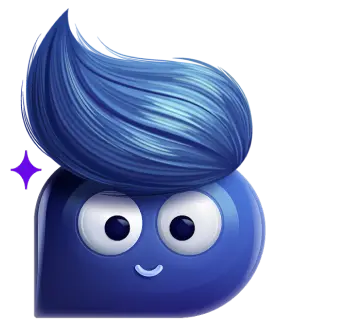
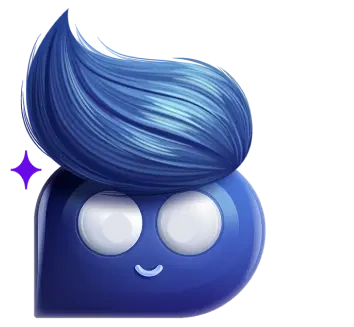
Dodaj animowane oczy i animację machania maskotki.
Wprowadza śledzenie kursora przez oczy, zoom przy machaniu oraz pokazuje rękę tylko podczas machania, zachowując działanie toggle powiadomień.

Made-with: Cursor

Changed region(s): [[0.4661, 0.6422, 0.5593, 0.7645], [0.2797, 0.6422, 0.3729, 0.7645]]

diff --git a/skillo.jsx b/skillo.jsx
@@ -2,8 +2,11 @@
 //
 // Requirements:
 //   - React 18+, Tailwind CSS
-//   - place skillo-body.webp and skillo-hand.webp next to this file
-//   - Satoshi is loaded via <style> @import - remove if you self-host it
+//   - place three files next to this component:
+//       skillo-body.webp       (body with eyes ERASED - for animated hero with tracking pupils)
+//       skillo-body-full.webp  (body with eyes - for the chat header avatar)
+//       skillo-hand.webp       (waving hand)
+//   - Satoshi loaded via <style> @import - remove if self-hosted
 //
 // Usage:
 //   import Skillo from "./Skillo";
@@ -12,17 +15,25 @@
 //   ref.current.wave();           // trigger wave animation
 //   ref.current.notify("text");   // wave + red dot + open chat with message
 //
-// IMPORTANT: this component posts to /api/chat for AI replies.
-// Implement that endpoint on your backend. It receives:
+// Features:
+//   - Eyes follow the cursor (bottom-right mascot only)
+//   - Hand only appears while waving (fades in, scales)
+//   - Mascot pulses in/out with the wave rhythm - more attention-grabbing
+//   - Header avatar has static eyes (does not track cursor)
+//
+// IMPORTANT: posts to /api/chat for AI replies.
+// Implement that endpoint on your backend, receiving:
 //   { messages: [{ role: "user"|"assistant", content: "..." }, ...] }
-// It must return { reply: "..." }.
-// Keep your Anthropic API key server-side, never in the frontend.
+// and returning: { reply: "..." }
+// Keep Anthropic API key server-side.
 
 import { useState, useEffect, useRef, useCallback, useImperativeHandle, forwardRef } from "react";
 import bodyImg from "./skillo-body.webp";
+import bodyImgFull from "./skillo-body-full.webp";
 import handImg from "./skillo-hand.webp";
 
 const BODY_IMG = bodyImg;
+const BODY_IMG_FULL = bodyImgFull;
 const HAND_IMG = handImg;
 
 const BRAND = "#42079E";
@@ -40,11 +51,19 @@ const Skillo = forwardRef(function Skillo(props, ref) {
   const [isOpen, setIsOpen] = useState(false);
   const [isHovering, setIsHovering] = useState(false);
   const [waveKey, setWaveKey] = useState(0);
+  const [isWaving, setIsWaving] = useState(false);
   const [hasNotification, setHasNotification] = useState(false);
   const [pendingMessage, setPendingMessage] = useState(null);
+  const [pupilOffset, setPupilOffset] = useState({ x: 0, y: 0 });
+  const heroContainerRef = useRef(null);
+  const waveTimeoutRef = useRef(null);
 
   const wave = useCallback(() => {
     setWaveKey((k) => k + 1);
+    setIsWaving(true);
+    if (waveTimeoutRef.current) clearTimeout(waveTimeoutRef.current);
+    // Wave animation runs 1.3s * 2 iterations = 2.6s
+    waveTimeoutRef.current = setTimeout(() => setIsWaving(false), 2600);
   }, []);
 
   const notify = useCallback(
@@ -67,8 +86,37 @@ const Skillo = forwardRef(function Skillo(props, ref) {
 
   useEffect(() => {
     const t = setTimeout(() => wave(), 600);
-    return () => clearTimeout(t);
+    return () => {
+      clearTimeout(t);
+      if (waveTimeoutRef.current) clearTimeout(waveTimeoutRef.current);
+    };
   }, [wave]);
+
+  // Eyes follow cursor
+  useEffect(() => {
+    const handleMove = (e) => {
+      if (!heroContainerRef.current) return;
+      const rect = heroContainerRef.current.getBoundingClientRect();
+      const cx = rect.left + rect.width / 2;
+      const cy = rect.top + rect.height / 2;
+      const dx = e.clientX - cx;
+      const dy = e.clientY - cy;
+      const dist = Math.sqrt(dx * dx + dy * dy);
+      if (dist === 0) {
+        setPupilOffset({ x: 0, y: 0 });
+        return;
+      }
+      // Max offset in pixels - small enough that pupil stays inside eye white
+      const maxOffsetPx = 3;
+      // Fade off: full offset within 500px, then clamp
+      const norm = Math.min(dist, 500) / 500;
+      const ox = (dx / dist) * maxOffsetPx * norm;
+      const oy = (dy / dist) * maxOffsetPx * norm;
+      setPupilOffset({ x: ox, y: oy });
+    };
+    window.addEventListener("mousemove", handleMove);
+    return () => window.removeEventListener("mousemove", handleMove);
+  }, []);
 
   const handleClick = () => {
     setIsOpen((o) => !o);
@@ -111,12 +159,58 @@ const Skillo = forwardRef(function Skillo(props, ref) {
 
         .skillo-float { animation: skillo-float 4s ease-in-out infinite; }
 
+        @keyframes skillo-wave-pulse {
+          0%   { transform: translateY(0) scale(1); }
+          15%  { transform: translateY(-10px) scale(1.08); }
+          30%  { transform: translateY(-4px) scale(1.02); }
+          45%  { transform: translateY(-10px) scale(1.08); }
+          60%  { transform: translateY(-4px) scale(1.02); }
+          75%  { transform: translateY(-8px) scale(1.05); }
+          100% { transform: translateY(0) scale(1); }
+        }
+        @keyframes skillo-wave-pulse-hover {
+          0%   { transform: translateY(-10px) scale(1.05); }
+          15%  { transform: translateY(-14px) scale(1.12); }
+          30%  { transform: translateY(-8px) scale(1.06); }
+          45%  { transform: translateY(-14px) scale(1.12); }
+          60%  { transform: translateY(-8px) scale(1.06); }
+          75%  { transform: translateY(-12px) scale(1.09); }
+          100% { transform: translateY(-10px) scale(1.05); }
+        }
+
         .skillo-lift  { transition: transform 300ms cubic-bezier(0.34, 1.56, 0.64, 1); }
         .skillo-lift.hovering { transform: translateY(-10px) scale(1.05); }
+        .skillo-lift.waving {
+          animation: skillo-wave-pulse 2.6s ease-in-out forwards;
+          transition: none;
+        }
+        .skillo-lift.hovering.waving {
+          animation: skillo-wave-pulse-hover 2.6s ease-in-out forwards;
+          transition: none;
+        }
 
+        @keyframes skillo-hand-appear {
+          0%   { opacity: 0; transform: scale(0.6) rotate(-30deg); }
+          100% { opacity: 1; transform: scale(1) rotate(0deg); }
+        }
+        .skillo-hand-wrap {
+          animation: skillo-hand-appear 0.25s cubic-bezier(0.34, 1.56, 0.64, 1) forwards;
+          transform-origin: 38% 88%;
+        }
         .skillo-hand {
           transform-origin: 38% 88%;
           animation: skillo-wave 1.3s ease-in-out 2;
+          animation-delay: 0.15s;
+          animation-fill-mode: both;
+        }
+
+        /* Pupil tracking */
+        .skillo-pupil {
+          position: absolute;
+          background: #0B0B2A;
+          border-radius: 50%;
+          transition: transform 120ms ease-out;
+          pointer-events: none;
         }
 
         .skillo-pop  { animation: skillo-pop 0.35s cubic-bezier(0.34, 1.56, 0.64, 1); transform-origin: bottom right; }
@@ -144,10 +238,11 @@ const Skillo = forwardRef(function Skillo(props, ref) {
         )}
 
         {/* The hero widget — fixed bottom-right */}
-        <div className="fixed bottom-6 right-6 z-40" style={{ width: 108, height: 100 }}>
+        <div ref={heroContainerRef} className="fixed bottom-6 right-6 z-40" style={{ width: 108, height: 100 }}>
           <div className="skillo-float w-full h-full">
             <div
-              className={"skillo-lift w-full h-full cursor-pointer relative " + (isHovering ? "hovering" : "")}
+              key={`lift-${waveKey}`}
+              className={"skillo-lift w-full h-full cursor-pointer relative " + (isHovering ? "hovering " : "") + (isWaving ? "waving" : "")}
               onMouseEnter={() => setIsHovering(true)}
               onMouseLeave={() => setIsHovering(false)}
               onClick={handleClick}
@@ -156,7 +251,7 @@ const Skillo = forwardRef(function Skillo(props, ref) {
               onKeyDown={(e) => { if (e.key === "Enter" || e.key === " ") { e.preventDefault(); handleClick(); } }}
               aria-label="Otwórz asystenta Skillo"
             >
-              {/* Body (hero without hand) */}
+              {/* Body (hero without hand, eyes erased) */}
               <img
                 src={BODY_IMG}
                 alt=""
@@ -164,15 +259,45 @@ const Skillo = forwardRef(function Skillo(props, ref) {
                 draggable={false}
               />
 
-              {/* Hand — remounts on wave() to restart animation */}
-              <img
-                key={waveKey}
-                src={HAND_IMG}
-                alt=""
-                draggable={false}
-                className="skillo-hand absolute select-none pointer-events-none"
-                style={{ width: "25%", top: "6%", right: "8%" }}
+              {/* Pupils overlay — two tracked black circles in the eye sockets */}
+              {/* Left eye: center 33.1% 69.6%, pupil ~6.8% × 7% of container */}
+              <div
+                className="skillo-pupil"
+                style={{
+                  width: "6.8%",
+                  height: "7%",
+                  left: "calc(33.1% - 3.4%)",
+                  top: "calc(69.6% - 3.5%)",
+                  transform: `translate(${pupilOffset.x}px, ${pupilOffset.y}px)`,
+                }}
               />
+              {/* Right eye: center 51.4% 69.6% */}
+              <div
+                className="skillo-pupil"
+                style={{
+                  width: "6.8%",
+                  height: "7%",
+                  left: "calc(51.4% - 3.4%)",
+                  top: "calc(69.6% - 3.5%)",
+                  transform: `translate(${pupilOffset.x}px, ${pupilOffset.y}px)`,
+                }}
+              />
+
+              {/* Hand — only appears while waving */}
+              {isWaving && (
+                <div
+                  key={waveKey}
+                  className="skillo-hand-wrap absolute"
+                  style={{ width: "25%", top: "6%", right: "8%" }}
+                >
+                  <img
+                    src={HAND_IMG}
+                    alt=""
+                    draggable={false}
+                    className="skillo-hand w-full h-full select-none pointer-events-none"
+                  />
+                </div>
+              )}
 
               {/* Notification indicator */}
               {hasNotification && !isOpen && (
@@ -290,7 +415,7 @@ function ChatPanel({ onClose, initialMessage, clearInitial }) {
               style={{ background: BRAND }}
             >
               <img
-                src={BODY_IMG}
+                src={BODY_IMG_FULL}
                 alt=""
                 className="object-contain pointer-events-none"
                 style={{
